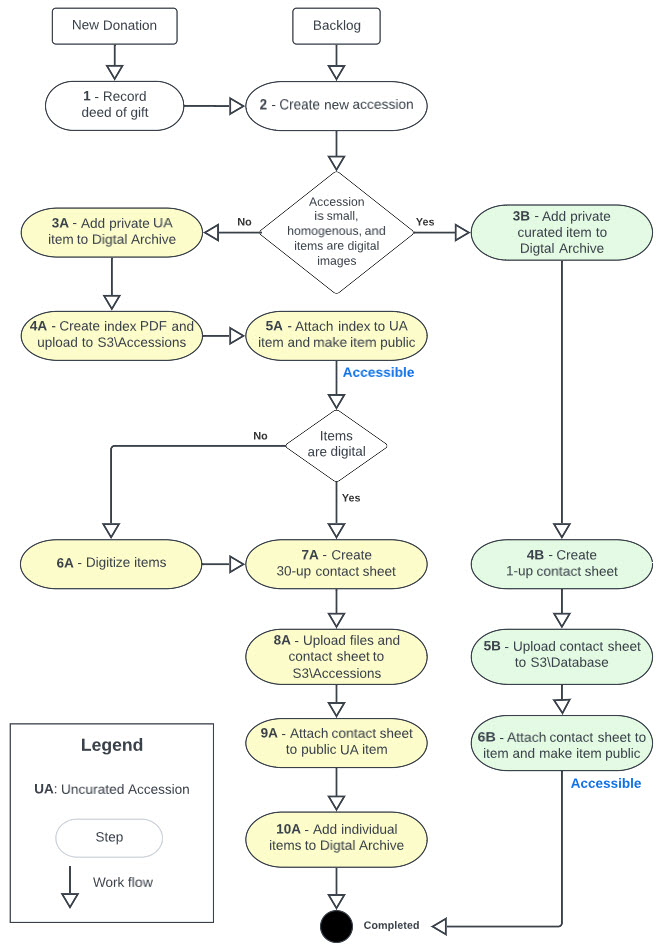
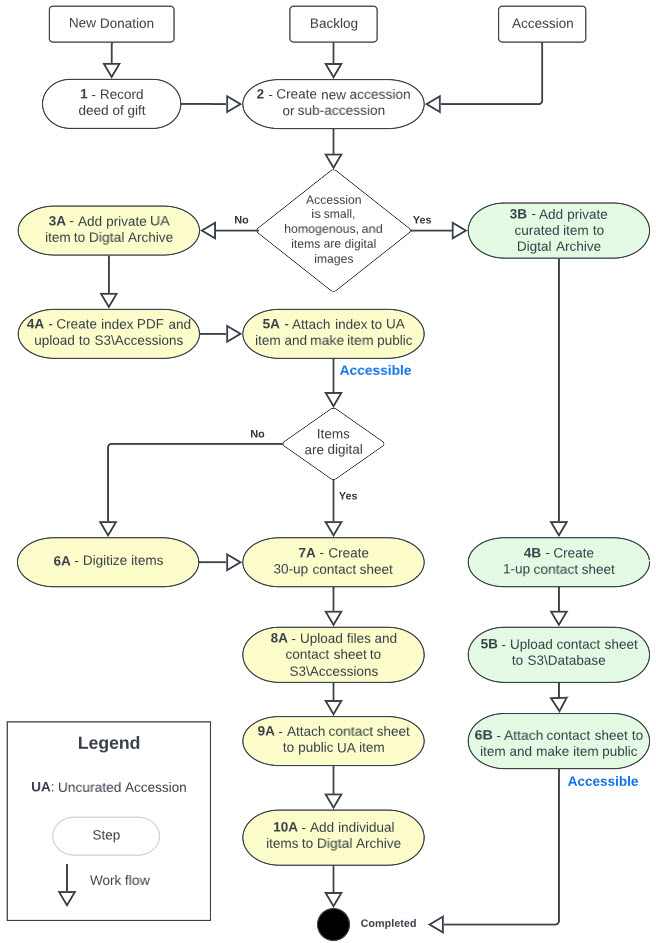
Updates.

diff --git a/digital-archive/docs/archivist/accessioning.md b/digital-archive/docs/archivist/accessioning.md
@@ -5,7 +5,7 @@
 !!! note ""
     This section describes how the [Southwest Harbor Public Library](https://swhplibrary.org) (SWHPL) performs accessioning and curating for its [Digital Archive](https://swhplibrary.net). The information is provided solely for information-sharing purposes.
 
-At SWHPL (pronounced *swiple*, rhymes with *triple*), *accessioning* is the process of transferring archival materials from a donor, or the backlog, and recording information about the accession in the Library's accessions database. *Curating* is the process of making the materials in an accession publicly accessible as searchable and viewable items in the the Digital Archive.
+At SWHPL (pronounced *swiple*, rhymes with *triple*), *accessioning* is the process of transferring archival materials from a donor, or the backlog, and recording information about the accession in the Library's accessions database. *Curating* is the process of making the materials in an accession publicly accessible as searchable and viewable items in the Digital Archive.
 
 ### Contents
 
@@ -46,7 +46,7 @@ At SWHPL (pronounced *swiple*, rhymes with *triple*), *accessioning* is the proc
 
 
 ### History
-In early 2020, SWHPL had no formal accessioning process and no longer had a curator. At that time, the Digital Archive already had more than 10,000 items and an even greater backlog of materials that are not accessible to the public. In an effort to reduce the backlog and better handle new donations, George Soules and Elliot Santavicca developed an initial accessioning process. In October 2022, George assumed the role of interim curator. He and archivist Sadie Cooley, with support from Library director Erich Reed, worked together to refine and document the accessioning and curating process described here.
+In early 2020, SWHPL had no formal accessioning and curating process and no longer had a curator. At that time, the Digital Archive already had more than 10,000 items and an even greater backlog of materials that are not accessible to the public. In an effort to reduce the backlog and better handle new donations, George Soules and Elliot Santavicca developed an initial accessioning process. In October 2022, George assumed the role of interim curator. He and archivist Sadie Cooley, with support from Library director Erich Reed, worked together to refine and document the accessioning and curating process described here.
 
 ---
 
@@ -60,22 +60,22 @@ The process described here was developed to achieve the following goals:
 
 ### Accessibility
 
-The primary goal at SWHPL is make as much useful information (metadata, images, and searchable documents) available to the public as quickly as possible via the Digital Archive. This is easier said than done given the Library's enormous backlog of archival materials which were acquired during the past several decades. 
+The primary goal at SWHPL is to make as much useful information (metadata, images, and searchable documents) available to the public as quickly as possible via the Digital Archive. This is easier said than done given the Library's enormous backlog of archival materials which were acquired during the past several decades. 
 
 In the early days, SWHPL archivists had the luxury of researching and documenting items one at a time before making them publicly available. While such thorough curation is still the holy grail, today, the primary and realistic goal is to make it possible for the public to find what the Library possesses even though detailed information about individual items might not yet be available. This is not a case of  quantity vs quality, but rather one of broad vs deep. It is better for a researcher to discover an uncurated photograph than to not know it exists.
 
 ### Efficiency
-SWHPL achieves its accessibility goal by following an accessioning process that is efficient and manageable regardless of the number of archivist hours available during any given period of time. While the most progress can made when ample human resources are available, the process must allow even a single part-time archivist to make progress toward achieving the goals of accessibility and backlog reduction. It must also allow new archivists and volunteers to quickly come up to speed and become productive.
+SWHPL achieves its accessibility goal by following an accessioning and curating process that is efficient and manageable regardless of the number of archivist hours available during any given period of time. While the most progress can made when ample human resources are available, the process must allow even a single part-time archivist to make progress toward achieving the goals of accessibility and backlog reduction. It must also allow new archivists and volunteers to quickly come up to speed and become productive.
 
-The Library achieves its goal of efficiency by providing archivists with the right tools, and a documented process for using those tools, to accession and curate materials. This documentation describe those tools and processes.
+The Library achieves its goal of efficiency by providing archivists with the right tools, and a documented process for using those tools, to accession and curate materials. This documentation describes those tools and processes.
 
 ### Backlog reduction
-An overarching goal at SWHPL is to reduce and eventually eliminate the Library's backlog of tens of thousands of digital and physical items. The Library does not know the exact number of items in the backlog because these items were acquired before the Library followed the accessioning process described here. By breaking the backlog into manageable sets of items, and then accessioning those sets, the Library will eventually get a handle on what's in the backlog and how large it is.
+An overarching goal at SWHPL is to reduce and eventually eliminate the Library's backlog of tens of thousands of digital and physical items. The Library does not know the exact number of items in the backlog because these items were acquired before the Library followed the accessioning and curating process described here. By breaking the backlog into manageable sets of items, and then accessioning those sets, the Library will eventually get a handle on what's in the backlog and how large it is.
 
 
 ### Transferability
-The accessioning process must be such that responsibility for accessioning and the Digital Archive can be transferred to a new archivist with minimal dependence on institutional knowledge that resides only in the minds of a few individuals. Achievement
-of this goal is critical to ensure that the Library can continue to be meet the other goals if key personnel leave the organization.
+The accessioning and curating process must be such that responsibility for accessioning and the Digital Archive can be transferred to a new archivist with minimal dependence on institutional knowledge that resides only in the minds of a few individuals. Achievement
+of this goal is critical to ensure that the Library can continue to meet the other goals if key personnel leave the organization.
 
 ---
 
@@ -88,13 +88,13 @@ Accession
     time from the same source. This definition applies at SWHPL for new donations, but not for backlog items.
     
     For new donations, the items are what was donated, for example, the contents of a shoebox. When a new donation
-    consists of a large number of items, the archivist may divide the items into *accession subsets* which are each
-    more manageable than the accession as a whole
+    consists of a large number of items, the archivist may divide the items into *subs-accessions* which are each
+    more manageable than the accession as a whole (the *primary accession*).
     
     When the accession is from the *backlog*, the items are whatever the archivist who creates the accession chooses.
-    For example, they could choose all the physical items in a binder, or all the digital files in a folder on the
+    For example, they could choose all the physical items in a three-ring binder, or all the digital files in a folder on the
     *archival hard drive*. As with new donations, the archivist may divide the physical items or digital files into
-    more manageable *accession subsets*.
+    more manageable *subs-accessions*.
 
 Accessions Database
 :   A database, separate from the Digital Archive database, that SWHPL uses to record information about an accession
@@ -102,27 +102,16 @@ Accessions Database
 
 Accession Number
 :   SWHPL uses a four-digit integer, starting at 1000, to identify an accession. An archivist assigns the next available
-    number to each new accession. The number for an *accession subset* is the accession number followed by a numeric suffix
-    as explained in the definition below.
+    number to each new accession. The number for a *subs-accession* is the accession number followed by a numeric suffix
+    as explained in the definition for *sub-accession*.
     
     The accession number appears in the **_Accession #_** field of Digital Archive items, though it's
-    blank for most items. This is because most items were added to the Digital Archive before the accessioning process was
+    blank for most items. This is because most items were added to the Digital Archive before the accessioning and curating process was
     established.
     
     Note that some items with a blank **_Accession #_** field belong to an accession that was recently created, but the
     **_Accession #_** fields for the accession's items were not updated when the accession was created because of the extra
     time that would be required to perform this bookkeeping task.
-
-Accession Subset
-:   A part of an accession that has been separated from the accession as a whole. For example, if the accession for a new
-    donations consists of a photo album, a packet of letters, and a variety of miscellaneous objects, an archivist might
-    choose to create one subset for the album, another for the letters, and a third for the rest.
-
-    An accession subset gets its own *accession number* which is the accession number followed by a suffix. For
-    example, if the accession number is `1234`, the accession subsets would be identified as `1234_01`, `1234_02`, `1234_03`
-    and so on.
-
-    Use of accession subsets is a key element of the Library's [backlog reduction strategy](#backlog-reduction-strategy). 
 
 Archival Hard Drive
 :   A removable PC hard drive affectionately known at SWHPL as the terabyte drive. It contains the Library's extensive
@@ -153,8 +142,8 @@ Backlog
 
     A factor that contributes to the backlog is the ongoing acquisition of new items that donors gift to the Library.
     Archivists must choose whether to devote their limited time to making new items publicly accessible versus making
-    items from the backlog publicly accessible. If the new items are not immediately curated and added to the Digital
-    Archive, then they must be added to the backlog which increases its size.
+    items from the backlog publicly accessible. New items that are not immediately added to the Digital
+    Archive implicitly become part of the backlog, thus increasing its size.
 
 Collection
 :   At SWHPL, a collection is a name such as "The Smith Family Collection" used to identify a set of items that came from
@@ -165,7 +154,7 @@ Collection
     Items in a collection often come from multiple accessions. For instance, each donation from the Smith family would
     be assigned to separate accessions, but the items in each accession would belong to the "Smith Family Collection".
     
-    If the items in a collection were added to the Digital Archive before the accessioning process was established,
+    If the items in a collection were added to the Digital Archive before the accessioning and curating process was established,
     those items will not be associated with any accessions.
 
 Contact Sheet
@@ -179,12 +168,12 @@ Curated Item
 
 Curation
 :   At SWHPL, curation refers to selecting, identifying, organizing, storing, digitizing,
-    relating, and writing metadata for *archival materials* that will be added to the Digital Archive.
+    relating, and writing metadata for *archival materials*, and ultimately, adding them to the Digital Archive.
 
 Google Drive
 :   A Google Drive that is shared with Library personnel and the curator or other archivists who are not Library employees.
     The drive contains documents (such as accessioning policies and procedures), copies of software tools, and other files
-    that archivists utilize as part of the accessioning process.
+    that archivists utilize as part of the accessioning and curating process.
 
 Item
 :   Generically, an item is a single object (physical or digital) such as a photograph, document, map, or book. In the Digital
@@ -196,12 +185,31 @@ Item Number
     the most recent item number was around 16680.
 
 New Donation
-:   A donation of physical or digital items from a donor that was made starting around the year 2020 when the accessioning process
+:   A donation of physical or digital items from a donor that was made starting around the year 2020 when the accessioning and curating process
     described here was first implemented. The word "new" distinguishes these donations from those made prior to 2020.
 
+Primary Accession
+:   An accession that has one or more *sub-accessions*. Primary just means the entire original accession before it was
+    divided into sub-accessions.
+
 S3
-:   Cloud storage using Amazon's Simple Storage Service. S3 is an integral part of SWHPL's accessioning process.
+:   Cloud storage using Amazon's Simple Storage Service. S3 is an integral part of SWHPL's accessioning and curating process.
     Learn more in the [tools section](#tools).
+
+Sub-accession
+:   A part of an accession that has been separated from the accession as a whole (the *primary accession*).
+    For example, if the accession for a new donation consists of a photo album, a packet of letters, and
+    a variety of miscellaneous objects, an archivist might choose to create one sub-accession for the album,
+    another for the letters, and a third for the rest.
+
+    A sub-accession gets its own *accession number* which is the primary accession number followed by a suffix. For
+    example, if the primary accession number is `1234`, the sub-accession would be identified as `1234_01`, `1234_02`, `1234_03`
+    and so on.
+
+    Utilization of sub-accessions is a key element of the Library's [backlog reduction strategy](#backlog-reduction-strategy).
+
+    Except where stated otherwise, a sub-accession is treated the same way as an accession with regard to the process. For
+    instance, a sub-accession gets its own record in the **_Accessions_** table just like a *primary accession*.
 
 UA
 :   See *uncurated accession item*.
@@ -215,12 +223,12 @@ Uncurated Accession Item
 ---
 
 ## Backlog reduction strategy
-Desmond Tutu once wisely said that “there is only one way to eat an elephant: a bite at a time.” What he meant is that everything in life that seems daunting, overwhelming, and even impossible can be accomplished gradually by taking on just a little at a time.
+Desmond Tutu once said that “there is only one way to eat an elephant: a bite at a time.” What he meant is that everything in life that seems daunting, overwhelming, and even impossible can be accomplished gradually by taking on just a little at a time.
 
 Tutu's philosophy applies to backlog reduction, but only when combined with an efficient accessioning and curating process. Without an efficient process to guide them, an archivist is like a deer in the headlights staring at what seems like an insurmountable challenge and not knowing how to approach it or get it under control. Simply taking one bite at a time is not enough because it will take forever.
 
 ### What doesn't work
-Before describing how SWHPL eats the elephant, let's discuss a strategy that is not effective at achieving the Library's [accession and curation goals](#accession-and-curation-goals).
+Before describing how SWHPL eats the elephant, let's discuss a strategy that is *not* effective at achieving the Library's [accession and curation goals](#accession-and-curation-goals).
 
 -   Randomly curating one item at a time.
 -   Devoting effort to the newest things instead of the most important.
@@ -236,32 +244,34 @@ Another fault with this process is to delay making an item accessible to the pub
 The list below highlights the key elements of the strategy that SWHPL employs.
 
 -   Prioritizing items and tasks based on the [accession and curation goals](#accession-and-curation-goals).
--   Dividing large accessions into subsets and processing them in steps.
+-   Dividing large accessions into sub-accessions and processing them in steps.
 -   Making partial information about not-yet-curated items available to the public.
 -   Only performing work that contributes to the goals.
--   Quickly producing a quantity of good results instead of a miniscule amount of perfect results.
+-   Quickly producing a quantity of good results instead of a minuscule amount of perfect results.
 
 This list describes a holistic process that divides the work into prioritized pieces. Multiple pieces can be worked on in parallel by different people. Each piece can be worked on in steps by individuals. The amount of work required to complete a step can be easily managed by a single archivist in a small amount of time and every step contributes toward the [accession and curation goals](#accession-and-curation-goals). Most importantly, the steps are sequenced in a way that makes partial information about items available to the public without waiting until all steps for that item have been completed.
 
-### The importance of accession subsets
-A key element of the strategy described here is the division of large accessions into subsets. This is best understood by an example.
+### The importance of sub-accessions
+A key element of the strategy described here is the division of large accessions into sub-accessions. This is best understood by an example.
 
 The Library accepts as a gift a crate containing a photo album, a manila folder full of documents and type-written letters, and a box of glass plate negatives. An archivist [creates a new accession](#add-a-new-accession-to-the-accessions-table), number `1234`, and labels the crate with that number. The curator determines that of all the items, the letters are of most immediate interest because they were written by someone for whom the Library often receives requests for information.
 
-Since it could be quite a while before a volunteer became available to scan and OCR the letters, the curator assigns an archivist to [create an index](#create-an-index-for-an-accession) for them, a task that should only take an hour or so.
+Since it could be quite a while before a volunteer becomes available to scan and OCR the letters, the curator assigns an archivist to create an index for them, a task that should only take an hour or so.
 
 Upon receiving this assignment, the archivist:
 
--   Creates an accession subset for the letters and assigns it number `1234_01`.
+-   Creates a sub-accession for the letters and assigns it number `1234_01`.
 -   Removes the letters from the crate and puts them in an archival box labeled with that number.
 -   Puts the box on a shelf in the archive closet, perhaps next to, but not inside the crate.
--   Creates an index for the letters.
+-   [Creates an index](#create-an-index-for-an-accession) for the letters.
 -   Adds the index to the Digital Archive as an uncurated accession item.
--   [Sets the **_Next Step_**](#choose-an-accessions-next-step) for the accession subset `1234_01` to `Scanning`.
+-   [Sets the **_Next Step_**](#choose-an-accessions-next-step) for the sub-accession `1234_01` to `Scanning`.
 
-At this point, partial information about the letters is now accessible to the public and the accession database records that the letters still need to be scanned. The remainder of the original accession is still in the crate, and because the letters have been removed from the crate, archivists know that what's left in the crate has not yet been processed. Eventually, over time, as other items in the accession are deemed important enough to work on relative to everything else in the backlog, more subsets will get created and the process just described will be repeated until the crate is empty and can be disposed of.
+At this point, partial information about the letters is now accessible to the public, and the accession database records that the letters still need to be scanned. The remainder of the primary accession is still in the crate, and because the letters have been removed from the crate, archivists know that what's left in the crate has not yet been processed. Eventually, over time, as other items in the accession are deemed important enough to work on relative to everything else in the backlog, more sub-accessions will get created and the process just described will be repeated until the crate is empty and can be disposed of.
 
-It's important to note that the crate having become empty does not necessarily mean that all items from the original accession have been added to the Digital Archive. It may even be the case that none of the items have made it that far. This is because each accession subset has its own **_Next Step_** such as `Create index` or `Scanning`. The crate's emptiness simply means that the entire original accession has been divided into subsets which can be worked on in parallel based on importance and availability of an archivist. In this example, it may be the case that nothing else in the original accession is important as the letters and so archivists devote time to other accessions before eventually getting back to this accession one day.
+An empty crate does not necessarily mean that all items from the primary accession have been added to the Digital Archive. It may even be the case that none of the items have made it that far. This is because each sub-accession has its own **_Next Step_** such as `Create index` or `Scanning`. The crate's emptiness simply means that the entire primary accession has been divided into sub-accessions which can be worked on in parallel based on importance and availability of an archivist. In this example, it may be the case that nothing else in the primary accession is important as the letters and so archivists devote time to other accessions before eventually getting back to this accession one day.
+
+Note that as an alternative to emptying the crate, you could store sub-accession items back in the create as long as they are within their own container that is clearly labeled. You'll know the create was "emptied" when all of its contents are sub-accessions.
 
 ---
 
@@ -290,14 +300,14 @@ of all other items that are part of that accession.
 
 The diagram below shows the distinction between accessions and collections. The fives items from the two accessions 1001 and 1100 belong
 to the single "Smith Collection". The single item from accession 1500 belongs to the "Postcard Collection". Both collections might also contain
-items that were added to the Digital Archive before the accessioning process was established.
+items that were added to the Digital Archive before the accessioning and curating process was established.
 
 ![Accessioning diagram](accessioning-1.jpg)
 
 ---
 
 ## Accessioning workflow
-The flowchart below shows the sequence of steps in the accessioning process.
+The flowchart below shows the sequence of steps in the accessioning and curating process.
 
 -   Yellow steps at left and middle produce an uncurated accession item.
 -   Green steps at right produce a curated item for the accession's images. 
@@ -305,7 +315,7 @@ The flowchart below shows the sequence of steps in the accessioning process.
 The process makes information about an accession's items publicly accessible very quickly because it allows the public
 to search the Digital Archive without having to wait for scanning and curating to occur which are the most time-consuming steps.
 In the chart below, the word "Accessible" in blue indicates the point within the process when an accession becomes
-public and searchable in the Digital archive. 
+public and searchable in the Digital Archive. 
 
 ![Accessioning diagram](accessioning-2.jpg)
 
@@ -321,13 +331,18 @@ In the explanations below, `####` means the accession number.
 1 &ndash; Record deed of gift
 :   Procure a signed and dated deed of gift form from the donor.
 
-2 &ndash; Create new accession
+2 &ndash; Create new accession or sub-accession
 :   This step results in an accession number which will be needed in subsequent steps.
 
     -   Follow the instructions for how to [add a new accession to the **_Accession_** table](#add-a-new-accession-to-the-accessions-table).
     -   For a new donation, Record the accession number on the deed of gift form.
 
 ---
+
+!!! Note ""
+    If the accession is from the digital backlog and there is no existing index and you will
+    not be creating an index, skip **3A** and **4A** and go to **7A**
+    to create the contact sheet and make the item public.
 
 3A &ndash; Add private UA item to Digital Archive
 :   This step results in an item identifier number which will be needed in subsequent steps.
@@ -473,7 +488,7 @@ in the **_Donors_** table because the same donor could be associated with more t
 Learn how to [add a new accession to the **_Accessions_** table](#add-a-new-accession-to-the-accessions-table).
 
 The screenshot below shows just some of the fields and a few of the rows of the **_Accessions_** table. Note the **_Next Step_** field
-which indicates where each accession is within the accessioning process.
+which indicates where each accession is within the accessioning and curating process.
 
 ![Accessioning diagram](accessioning-5.jpg)
 
@@ -502,7 +517,7 @@ The purpose of the **_Tasks_** table is to allow the curator to quickly see who 
 to know what they should be working on.
 
 The **_Tasks_** table should always reflect reality based on the availability of resources. For example, if at the present time no
-archivists are available to work, there should be no In Progress tasks. If a is was in progress when an archivist
+archivists are available to work, there should be no In Progress tasks. If a task was in progress when an archivist
 becomes unavailable, its priority should be lowered (perhaps to Next or High) to record its importance for when resources
 become available again.
 
@@ -521,7 +536,7 @@ on the archival hard drive. Little by little, SWHPL archivists create accessions
 You may never need to add a record to the **_Digital Files_** table. If you do, add it manually, using existing records as examples.
 
 An important use of the **_Digital Files_** table at SWHPL is to track which folders on the archival hard drive have been uploaded
-to S3 as part of the accessioning process. When every row in the table has an accession associated with it (or has been rejected), the
+to S3 as part of the accessioning and curating process. When every row in the table has an accession associated with it (or has been rejected), the
 entire backlog of digital files will have finally been accessioned and stored in S3.
 
 The screenshot below shows some of the fields and a few of the many rows of the **_Digital Files_** table.
@@ -533,7 +548,7 @@ This section explains how to perform common accessioning tasks.
 ---
 
 ### Add a new accession to the Accessions table
-Follow these steps to add a new record to the **_Accessions_** table.
+Follow these steps to add a new record to the **_Accessions_** table for an accession or sub-accession.
 
 -   If the accession is from a new donor, first [add the donor to the **_Donors_** table](#add-a-new-donor-to-the-donors-table).
 -   View the **_Accessions_** table in Airtable.
@@ -545,6 +560,9 @@ Follow these steps to add a new record to the **_Accessions_** table.
 -   A form like in the screenshot below appears.
 -   Fill in required fields.
     -   Use the next largest available number as the accession number.
+    -   If a sub-accession:
+        -   Append the next available sub-accession suffix e.g. `03` to the accession number.
+        -   For the **_Catalog_** field choose `SEE PRIMARY ACCESSION`.
     -   [Choose a next step](#choose-an-accessions-next-step) for the accession.
     -   For accessions from the archival hard drive, use the form's **_Digital Files_** selector
         to choose the folders that are part of the new accession.
@@ -571,8 +589,8 @@ Step                        | Meaning       | Workflow
 **_Create UA_**             | Create an uncurated accession (UA) item for the accession. Choose this option when the accession is large, *or* the items are dissimilar or unrelated, *or* no digital files exist for the items. | 3A - 9A
 **_Create contact sheet_**  | Create either a 30-up or 1-up contact sheet. | 7A or 4B
 **_Scanning_**              | Scan or photograph items from the accession that are candidates for being added to the Digital Archive. | 6A
-**Add item to DA_**   | Create individual curated items from the most important items in the accession. | 10A
-**_Break into subsets_**   | Divide the accession into subsets that are each more manageable than the entire original accession but are still considered to be part of the original accession.
+**_Add item to DA_**   | Create individual curated items from the most important items in the accession. | 10A
+**_Create sub-accessions_**   | Divide the accession into sub-accessions that are each more manageable than the entire primary accession but are still considered to be part of the primary accession.
 **_Find materials_**   | Choose this option when the location of the materials is unknown and they are needed for scanning or to return to the donor.
 **_Research_**   | Choose this option when research must be performed before any other step can be performed.
 **_Special treatment_**   | Choose this option when none of the other options apply. An example of special treatment would be to OCR the PDF files in an accession before proceeding with another step. Another example would be to reconcile confusing or contracting information about the accession.
@@ -717,7 +735,7 @@ To have the [scanner software](#epson-scanner-software) automatically create a s
 -   **_Image Type_**: `24-bit color`
 -   **_Resolution_**: `600` dpi
 
-It is okay use `Grayscale` for the **_Image Type_** when the original contains no color or when the
+It is okay to use `Grayscale` for the **_Image Type_** when the original contains no color or when the
 document's color is of no significance. Grayscale scans produce much smaller files than color scans.
 
 #### Scanning documents
@@ -750,8 +768,8 @@ When a donor offers to give or loan materials to the Library, the curator decide
 accession’s relevance per SWHPL's [Collection Development Policy](#collection-development-policy). If the curator accepts the materials, the
 donor must sign the Library’s [deed of gift](#deed-of-gift) form.
 
-One criterion for accepting a gift is whether these is sufficient information about the materials from which an archivist
-can produce metadata. The information could be provided in written-form by the donor, or it may be implicit in the materials
+One criterion for accepting a gift is whether there is sufficient information about the materials from which an archivist
+can produce metadata. The information could be provided in written form by the donor, or it may be implicit in the materials
 such as text written on the backs of photographs.
 
 For instance, an album of photographs with no information about each photo will generally
@@ -789,7 +807,7 @@ The archivist must ensure that the form is filled out properly per the descripti
 -   **Other information**: Additional information about the gift or materials such as who collected the materials, or who
     could be contacted to get more information.
 -   **Text to be used as the source of the gift**: The exact wording that should appear in the **_Source_** field for
-    Digital Archive items from the accession, for example "The Smith Family Collection".
+    Digital Archive items from the accession, for example, "The Smith Family Collection".
 -   **Disposition of separated-out materials**: Yes or no to indicate if the donor wants to receive back any materials
     that the Library chooses not to include in the accession.
 
@@ -808,7 +826,7 @@ Upon acceptance of materials from a donor for a new accession, the archivist per
     Photographs the shelf and updates the photo for that shelf in the **_Archive Closet_** table.
 
 ## Tools
-This section describes the software tools that SWHPL uses to carry out its accessioning process.
+This section describes the software tools that SWHPL uses to carry out its accessioning and curating process.
 
 ### Contact Sheet app
 The Contact Sheet app is a custom-written Python application created for SWHPL by AvantLogic. It allows an archivist to create 30-up and 1-up
